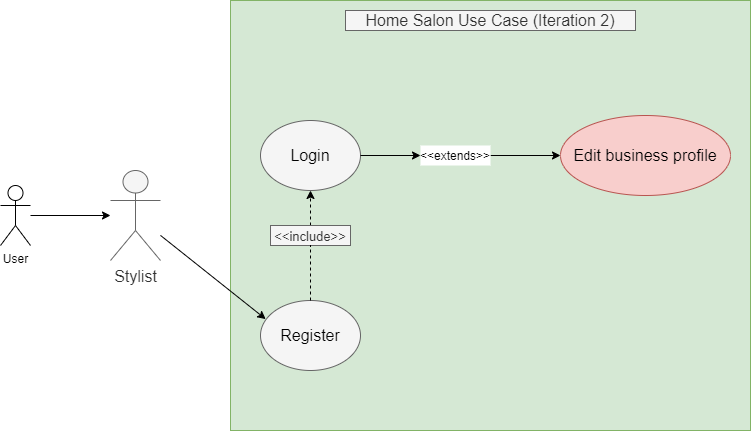
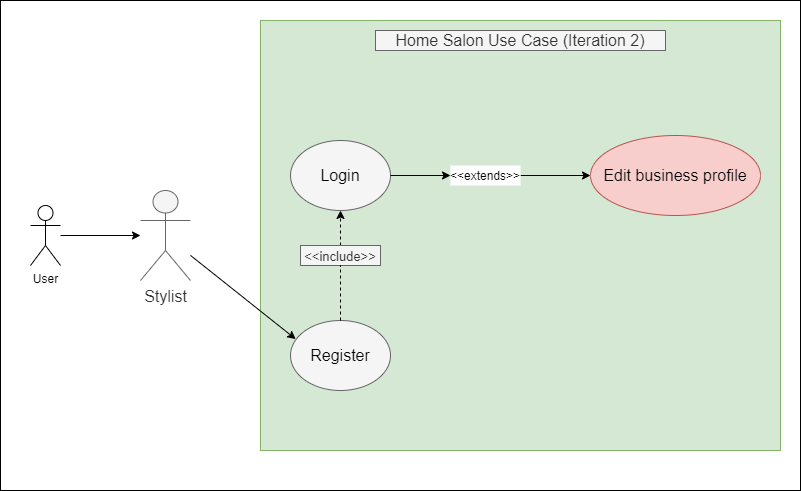
Add Login use case & change png

diff --git a/doc/use cases/HS-Use-Case(Iteration_2).md b/doc/use cases/HS-Use-Case(Iteration_2).md
@@ -6,12 +6,21 @@
 ## Use Caes: **Iteration 2**
 
 ---
-<-- user diagram to be added here -->
+![Use Case Iteration 2](doc/use%case/../../Home%20Salon%20Use%20Case(Iteration2).png)
 ---
 
 ## Flows of Events for Individual Use Cases
 
 ---
+
+### Sign Up as Stylist Use Case
+
+The sign-up page use case is available in the homepage. If the user clicks sign-in on the top right corner of the page, it takes it to a "Sign-up now!" button down on the same page. After clicking the button, the sign-up page opens in which the user can fill in the details like Name, Password, Phone number, Email and Gender (User needs to fill all these details otherwise error will be displayed) and can make an account by clicking the "SIGN UP" button at the bottom. If the user does not wants to make the account, he/she can simply click the "BACK TO HOME" option to get back to the homepage.
+
+### Login as a designer use case.
+
+Use cases for the registration page are provided at the top of the homepage. After the registration is completed, it will automatically move to the home page after login. The user clicks the "Logout" option in the upper right corner of the page, and it will log out.
+Next time you need to log in, press the "Login" button on the same page. After clicking the button, the login page will open, where the user can enter the email and password. Log in by clicking the "Login" button at the bottom. If the user does not want to log in to the account, they can click the "X" option at the top right to return to the home page.
 
 ### Edit Stylist Profile Use Case
 
